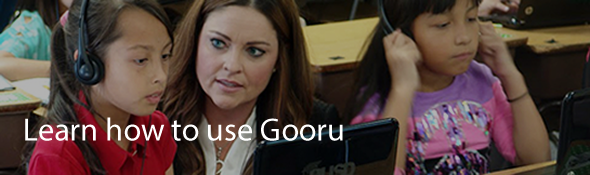
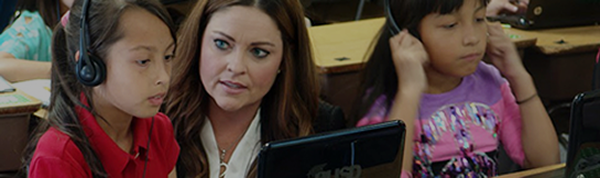
Change to landing page images, css.

Changed region(s): [[0.0305, 0.6571, 0.5797, 0.8286]]

diff --git a/src/main/resources/css/landingpage.css b/src/main/resources/css/landingpage.css
@@ -1245,3 +1245,16 @@ footer .col-xs-2:last-child{
 .dataTableResultHeading .col-xs-3{
 	border-right:1px solid #cccccc;
 }
+
+
+.getStartedIMG {
+	position: relative;
+}
+.getStartedIMG .getCaption {
+	bottom: 10px;
+	color: #ffffff;
+	font-family: 'Arvo',serif !important;
+	font-size: 30px;
+	left: 15px;
+	position: absolute;
+}
